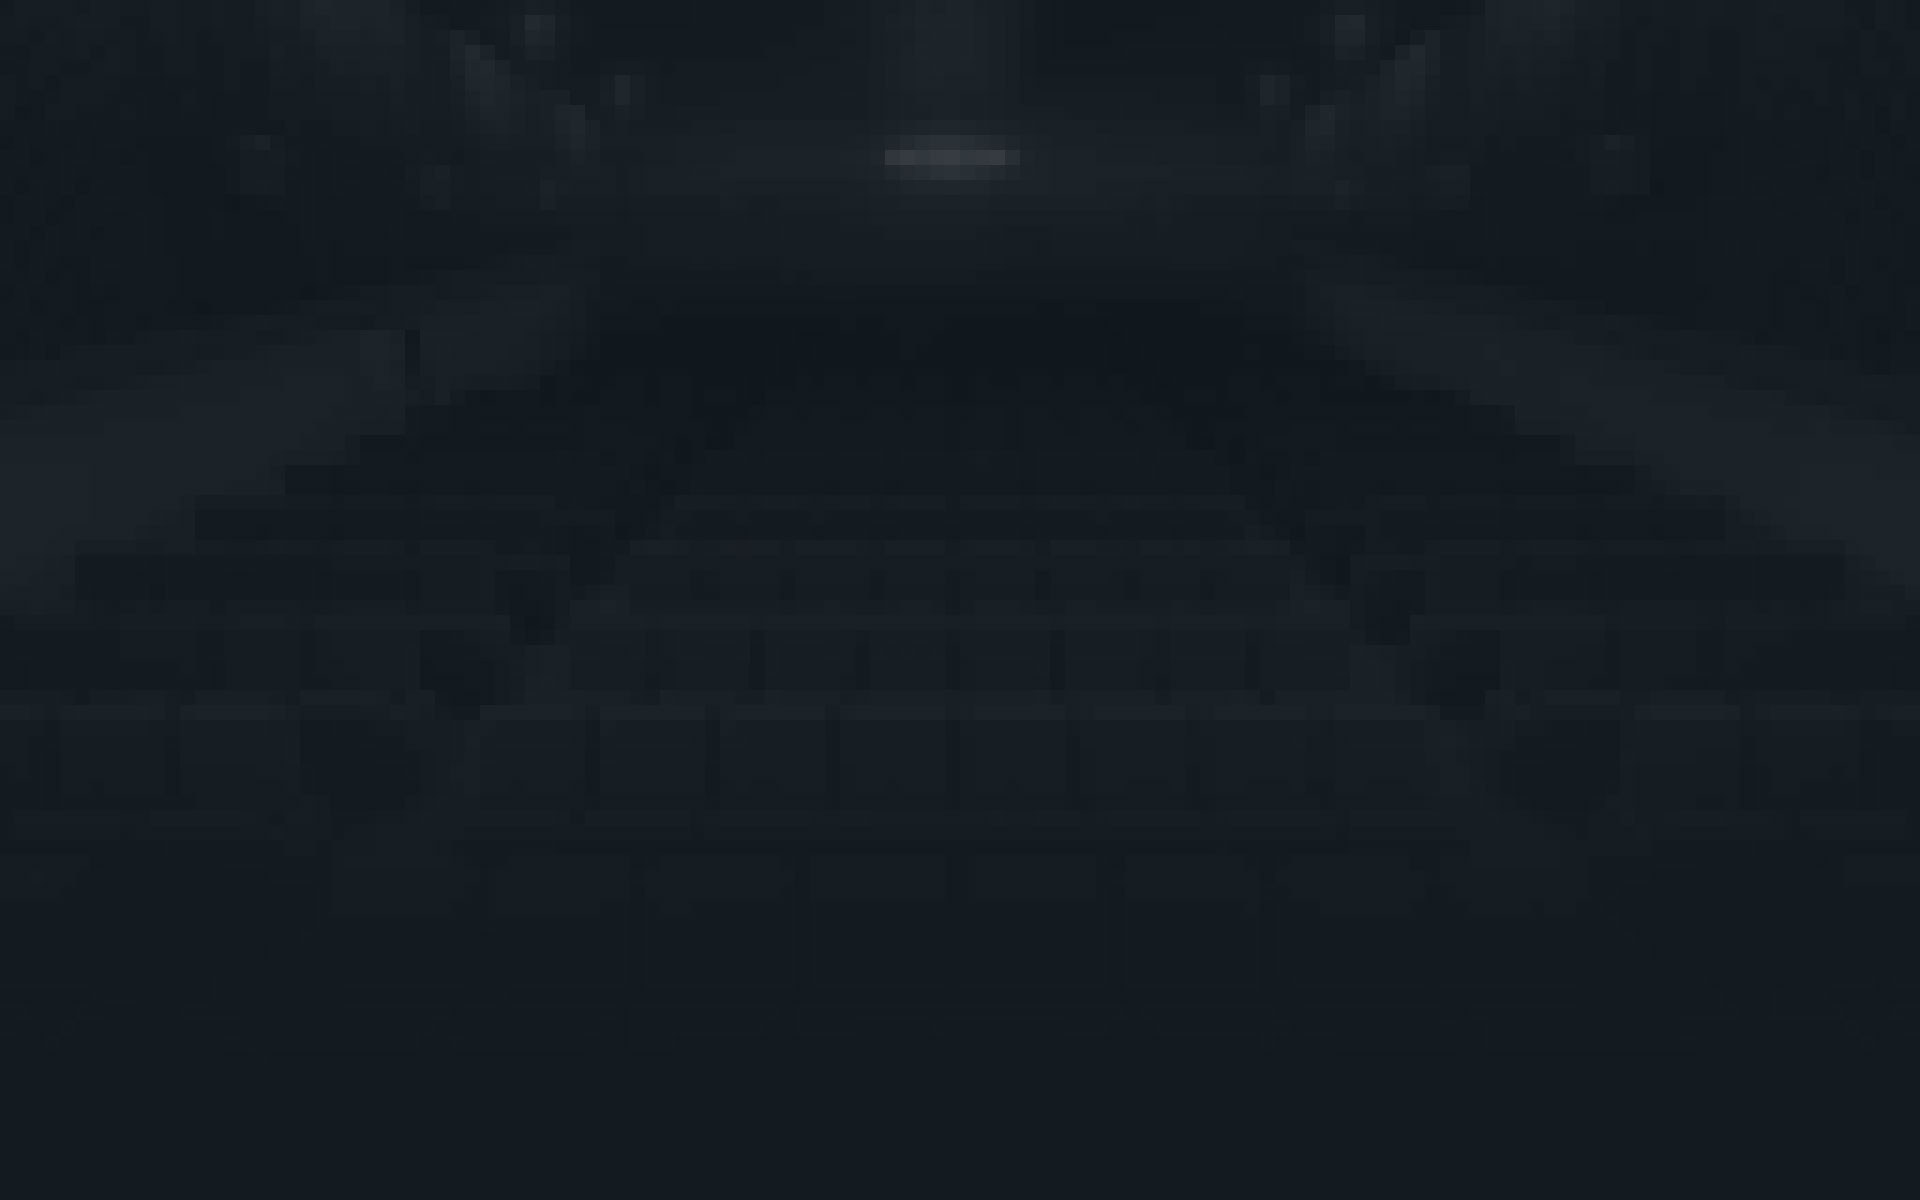
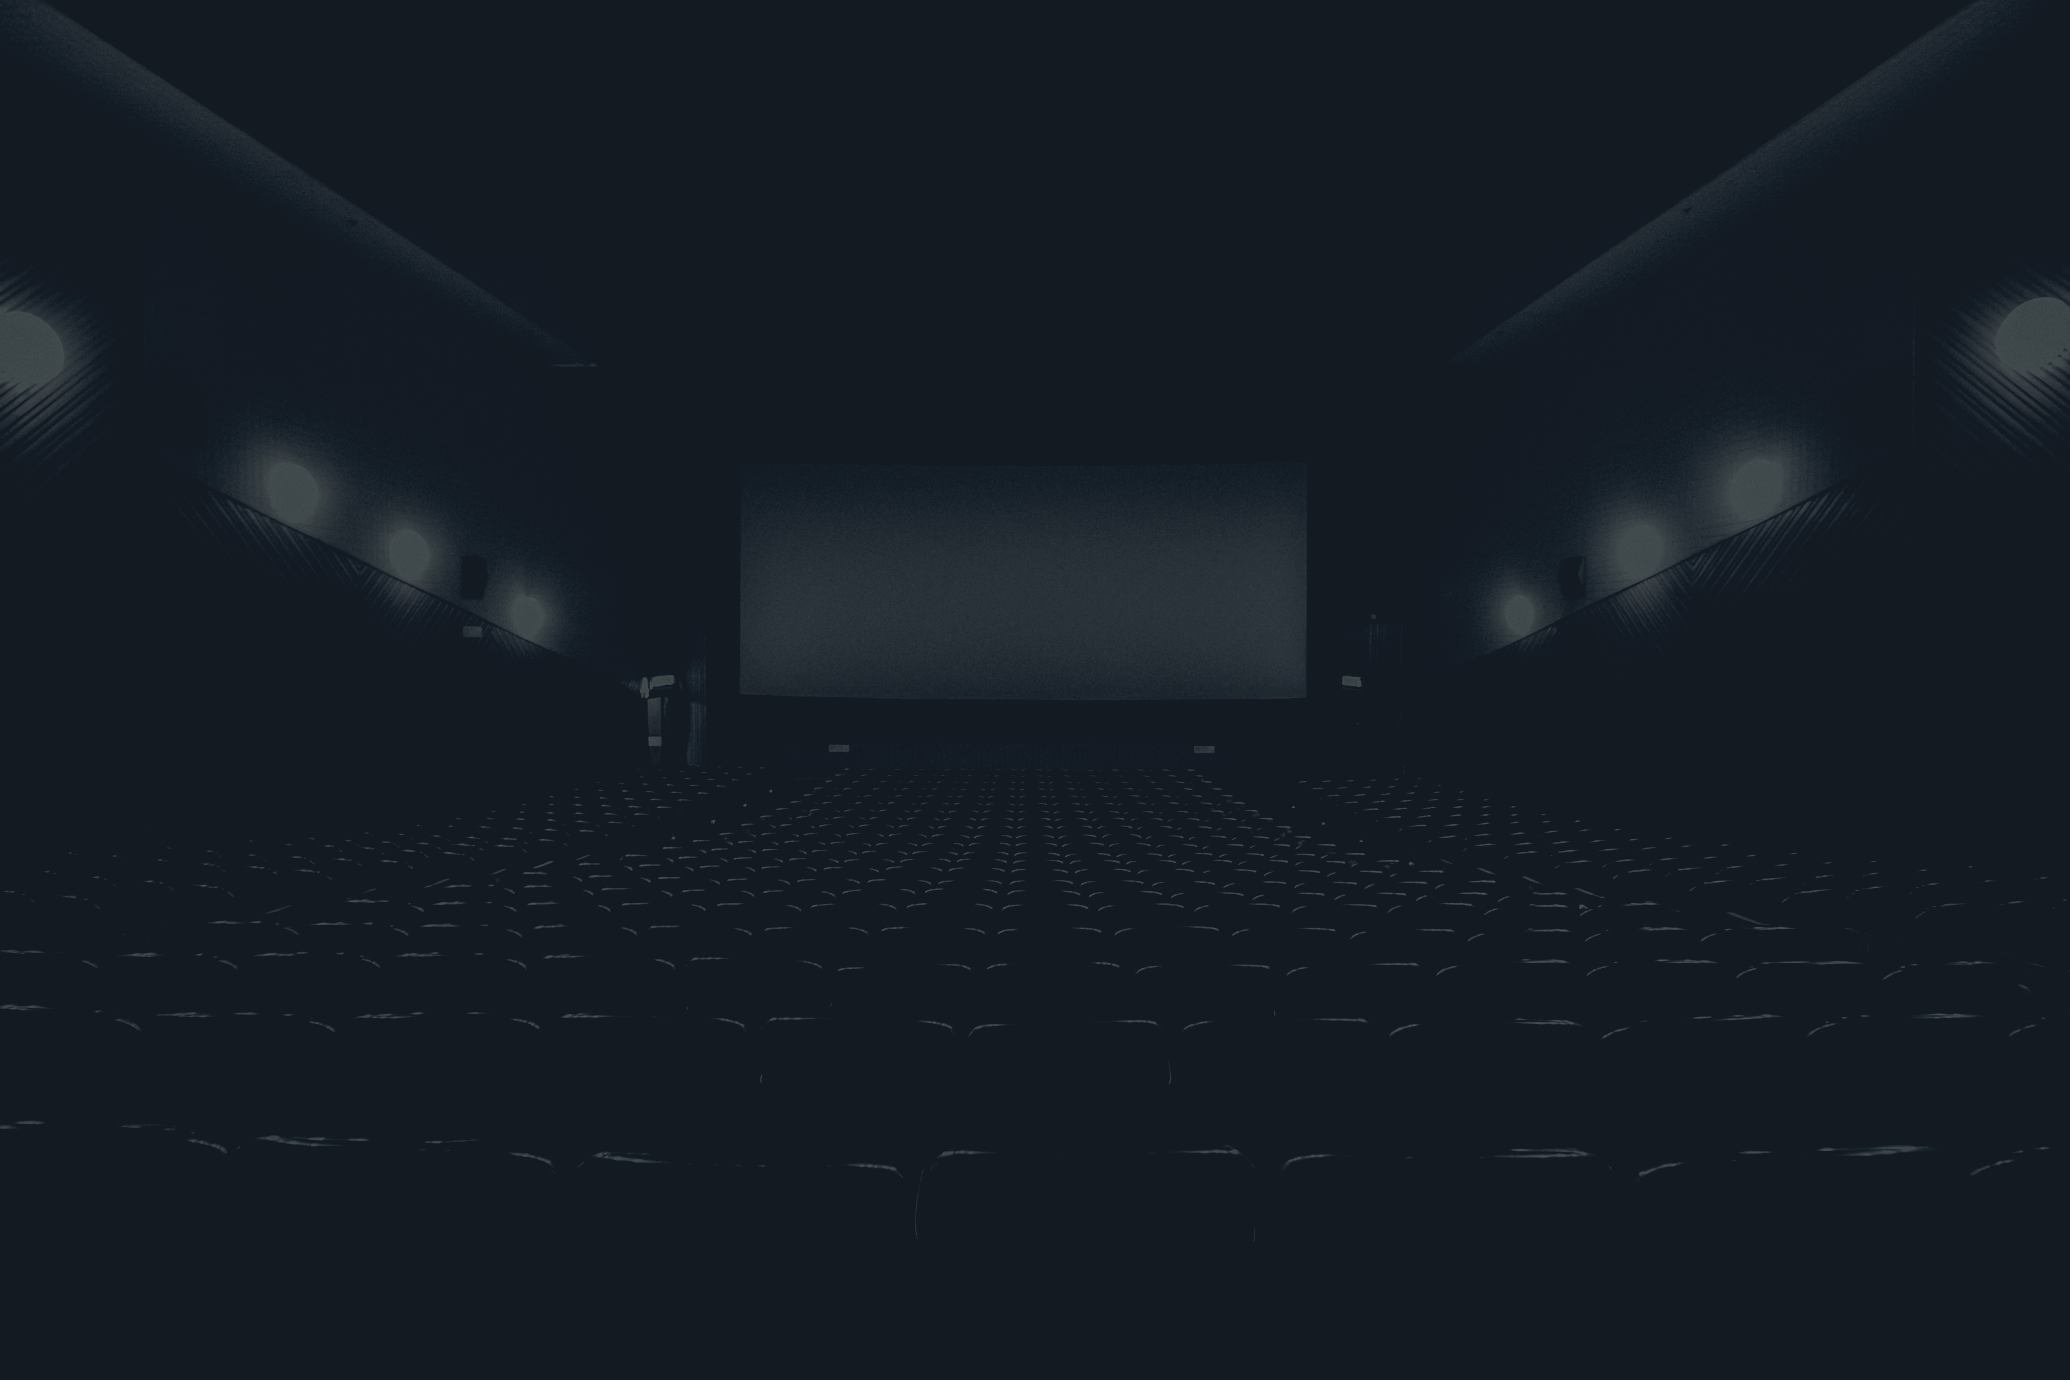
back Show Movie Modified and add js + background layout

diff --git a/public/assets/js/showSeance.js b/public/assets/js/showSeance.js
@@ -1,18 +1,40 @@
-function ShowDivSeance()
+/*function ShowDivSeance()
 {
     // Get the current display property of the div element
     let statusDivShow = window.getComputedStyle(document.getElementById('clSeancesInput')).display;
+    let contentBtnSeance = document.querySelector('#clbtnShowDivSeance').textContent;
+    console.log(contentBtnSeance);
 
     // Check the value of statusDivShow
     if (statusDivShow === "none") {
         // If statusDivShow is equal to "none", show the div element
         statusDivShow = "flex";
+        contentBtnSeance.replaceAll("voir");
     } else {
         // Otherwise, hide the div element
         statusDivShow = "none";
+        contentBtnSeance.innerHTML = "Masquer";
+    }
+
+    // Set the display property of the div element
+    document.getElementById('clSeancesInput').style.display = statusDivShow;
+}*/
+function ShowDivSeance() {
+    // Get the current display property of the div element
+    let statusDivShow = window.getComputedStyle(document.getElementById('clSeancesInput')).display;
+    let contentBtnSeance = document.querySelector('#clbtnShowDivSeance');
+
+    // Check the value of statusDivShow
+    if (statusDivShow === "none") {
+        // If statusDivShow is equal to "none", show the div element
+        statusDivShow = "flex";
+        contentBtnSeance.textContent = "Masquer";
+    } else {
+        // Otherwise, hide the div element
+        statusDivShow = "none";
+        contentBtnSeance.textContent = "Réserver";
     }
 
     // Set the display property of the div element
     document.getElementById('clSeancesInput').style.display = statusDivShow;
 }
-

diff --git a/public/assets/css/style.css b/public/assets/css/style.css
@@ -256,15 +256,18 @@ table {
  * Global Styles
  */
 body {
-    background-color: #131a20;
     background-image: url(../images/background.jpg);
     background-position: top center;
     background-repeat: no-repeat;
+    background-color: #131a20;
     color: #84878d;
     font-family: "Roboto", "Open Sans", sans-serif;
     font-size: 15px;
     font-weight: 400;
     line-height: normal;
+}
+#site-content{
+
 }
 
 h1, h2, h3, h4, h5, h6 {

diff --git a/public/assets/js/subqteSeance.js b/public/assets/js/subqteSeance.js
@@ -1,0 +1,10 @@
+const input = document.querySelector('#clPriceNorm');
+const spanMinus = document.querySelector('.btn-minus-norm');
+function subQteSeance() {
+    spanMinus.addEventListener('click', function () {
+        // Incrémentez la valeur de l'input
+        if (input.value > 0) {
+            input.value--;
+        }
+    });
+}

diff --git a/public/assets/css/movieShow.css b/public/assets/css/movieShow.css
@@ -1,3 +1,4 @@
+/* button validate */
 .btn-outline-warning {
     border-radius: 3px;
     border-color: #FFAA3C;
@@ -7,6 +8,10 @@
     background-color: #FFAA3C;
     color: white;
 }
+/* hide div reservation */
 div#clSeancesInput{
     display: none;
+}
+span.btn-plus-norm:hover, span.btn-minus-norm:hover {
+    cursor: pointer;
 }

diff --git a/public/assets/js/addQteSeance.js b/public/assets/js/addQteSeance.js
@@ -1,0 +1,10 @@
+const input = document.querySelector('#clPriceNorm');
+const spanPlus = document.querySelector('.btn-plus-norm');
+console.log(input)
+console.log(spanPlus)
+function addQteSeance(){
+    spanPlus.addEventListener('click', function() {
+        // Incrémentez la valeur de l'input
+        input.value++;
+    });
+}
